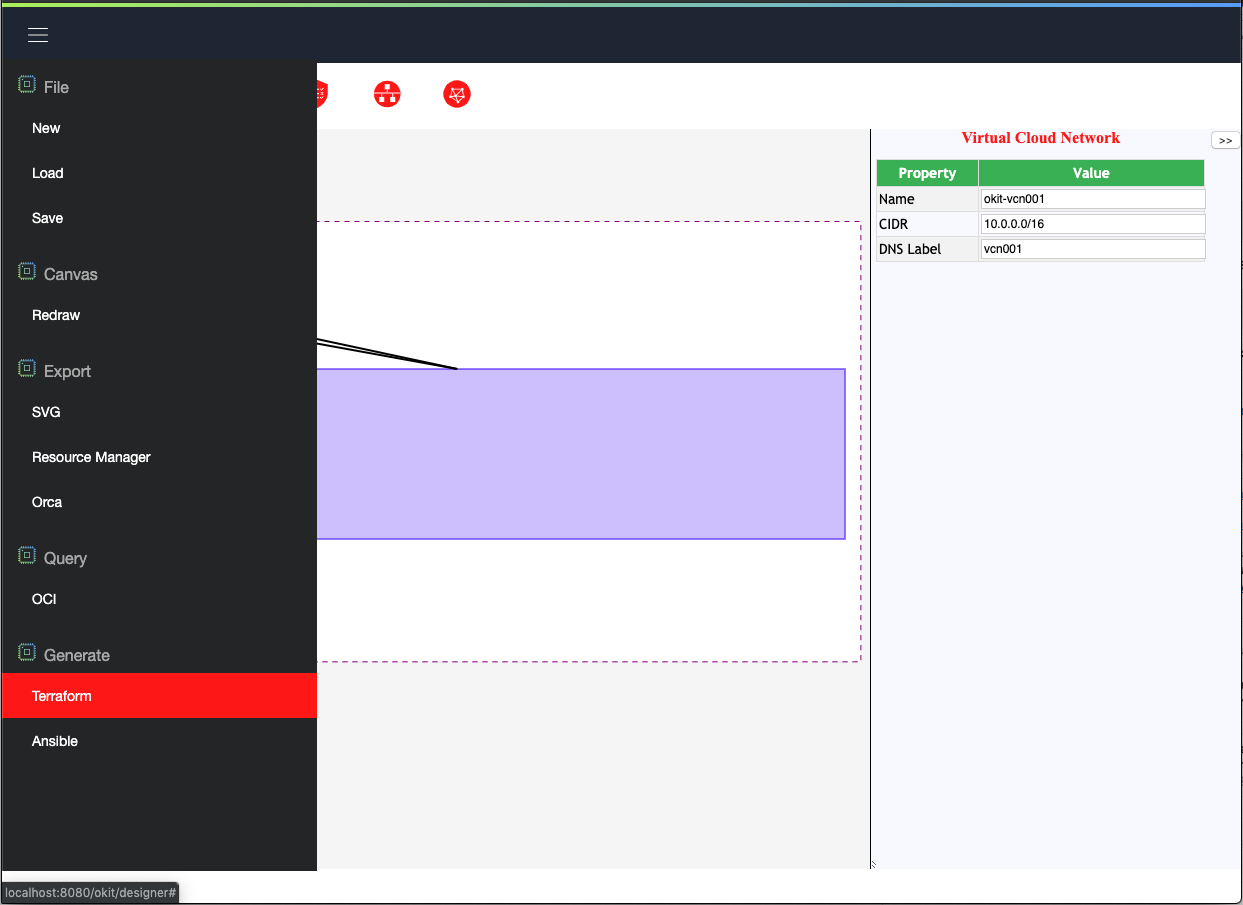
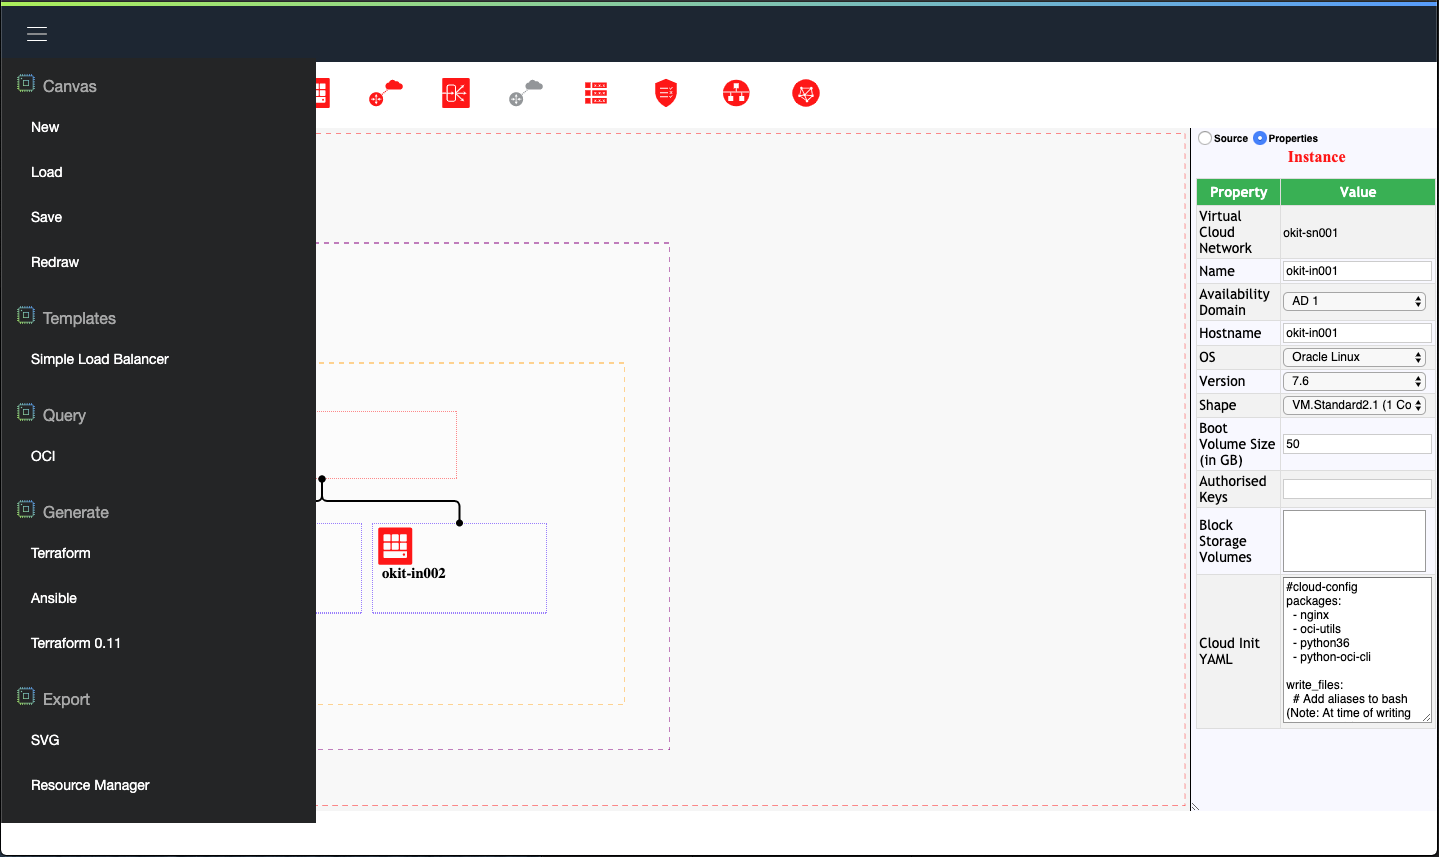
Update README

diff --git a/okitweb/static/okit/js/oci_assets/block_storage_volume.js b/okitweb/static/okit/js/oci_assets/block_storage_volume.js
@@ -116,6 +116,7 @@ function drawBlockStorageVolumeSVG(artifact) {
             if (instance.hasOwnProperty('block_storage_volume_ids')) {
                 if (instance['block_storage_volume_ids'].includes(artifact['id'])) {
                     console.info(artifact['display_name'] + ' attached to instance '+ instance['display_name']);
+                    console.groupEnd();
                     return;
                 }
             }

diff --git a/okitweb/static/okit/js/oci_assets/security_list.js b/okitweb/static/okit/js/oci_assets/security_list.js
@@ -155,7 +155,6 @@ function drawSecurityListSVG(artifact) {
         console.warn(parent_id + ' was not found in virtual cloud network sub artifacts : ' + JSON.stringify(virtual_cloud_network_bui_sub_artifacts));
     }
     console.groupEnd();
-    return;
 }
 
 /*

diff --git a/okitweb/static/okit/js/oci_assets/route_table.js b/okitweb/static/okit/js/oci_assets/route_table.js
@@ -152,7 +152,6 @@ function drawRouteTableSVG(artifact) {
         console.warn(parent_id + ' was not found in virtual cloud network sub artifacts : ' + JSON.stringify(virtual_cloud_network_bui_sub_artifacts));
     }
     console.groupEnd();
-    return;
 }
 
 /*

diff --git a/README.md b/README.md
@@ -406,7 +406,7 @@ Simple function to reset artifact specific variables.
  */
 function addBlockStorageVolume(parent_id, compartment_id) {
     let id = 'okit-' + block_storage_volume_prefix + '-' + uuidv4();
-    console.log('Adding ' + block_storage_volume_artifact + ' : ' + id);
+    console.groupCollapsed('Adding ' + block_storage_volume_artifact + ' : ' + id);
 
     // Add Virtual Cloud Network to JSON
 
@@ -429,10 +429,11 @@ function addBlockStorageVolume(parent_id, compartment_id) {
     block_storage_volume['backup_policy'] = 'bronze';
     okitJson['block_storage_volumes'].push(block_storage_volume);
     okitIdsJsonObj[id] = block_storage_volume['display_name'];
-    okitJson
-    displayOkitJson();
-    drawBlockStorageVolumeSVG(block_storage_volume);
+    //console.info(JSON.stringify(okitJson, null, 2));
+    //drawBlockStorageVolumeSVG(block_storage_volume);
+    drawSVGforJson();
     loadBlockStorageVolumeProperties(id);
+    console.groupEnd();
 }
 ```
 This function is used to add a new json element to the OKIT json structure. The elements within this json will match those 
@@ -469,17 +470,43 @@ function deleteBlockStorageVolume(id) {
 ```
 Function used to remove artifact and delete any references within linked artifacts.
 
+##### Artifact Dimensions Function
+```javascript
+function getBlockStorageVolumeDimensions(id='') {
+    return {width:icon_width, height:icon_height};
+}
+```
+
+The function is used to calculate the dimensions of the artifact and will be called by container function to determine 
+how much space to reserve for drawing this artifact. If you are building a container artifact (e.g. subnet) then this
+function will call the dimensions function for all contained artifacts to calculate it's dimensions.
+
 ##### Draw SVG
 ```javascript
 /*
 ** SVG Creation
  */
 function drawBlockStorageVolumeSVG(artifact) {
-    let parent_id = artifact['compartment_id'];
-    artifact['parent_id'] = parent_id;
+    let parent_id = artifact['parent_id'];
     let id = artifact['id'];
     let compartment_id = artifact['compartment_id'];
-    console.log('Drawing ' + block_storage_volume_artifact + ' : ' + id);
+    console.groupCollapsed('Drawing ' + block_storage_volume_artifact + ' : ' + id);
+    // Check if this Block Storage Volume has been attached to an Instance and if so do not draw because it will be done
+    // as part of the instance
+    if (okitJson.hasOwnProperty('instances')) {
+        for (let instance of okitJson['instances']) {
+            if (instance.hasOwnProperty('block_storage_volume_ids')) {
+                if (instance['block_storage_volume_ids'].includes(artifact['id'])) {
+                    console.info(artifact['display_name'] + ' attached to instance '+ instance['display_name']);
+                    console.groupEnd();
+                    return;
+                }
+            }
+        }
+    }
+    if (!artifact.hasOwnProperty('parent_id')) {
+        artifact['parent_id'] = artifact['compartment_id'];
+    }
 
     if (!compartment_bui_sub_artifacts.hasOwnProperty(parent_id)) {
         compartment_bui_sub_artifacts[parent_id] = {};
@@ -494,15 +521,7 @@ function drawBlockStorageVolumeSVG(artifact) {
         // Increment Icon Position
         compartment_bui_sub_artifacts[parent_id]['block_storage_position'] += 1;
 
-        let svg_x = (icon_width / 4);
-        let svg_y = Math.round((icon_height * 2) + (icon_height * position) + (icon_spacing * position));
-        let svg_width = icon_width;
-        let svg_height = icon_height;
-        let data_type = block_storage_volume_artifact;
-        let stroke_colour = block_storage_volume_stroke_colour;
-        let stroke_dash = 1;
-
-        let svg = drawArtifactSVG(artifact, data_type, svg_x, svg_y, svg_width, svg_height, stroke_colour, stroke_dash);
+        let svg = drawArtifact(newBlockStorageVolumeDefinition(artifact, position));
 
         let rect = d3.select('#' + id);
         let boundingClientRect = rect.node().getBoundingClientRect();
@@ -515,33 +534,11 @@ function drawBlockStorageVolumeSVG(artifact) {
         svg.on("click", function () {
             loadBlockStorageVolumeProperties(id);
             d3.event.stopPropagation();
-        })
-            .on("mousedown", handleConnectorDragStart)
-            .on("mousemove", handleConnectorDrag)
-            .on("mouseup", handleConnectorDrop)
-            .on("mouseover", handleConnectorDragEnter)
-            .on("mouseout", handleConnectorDragLeave)
-            .on("dragstart", handleConnectorDragStart)
-            .on("drop", handleConnectorDrop)
-            .on("dragenter", handleConnectorDragEnter)
-            .on("dragleave", handleConnectorDragLeave)
-            .on("contextmenu", handleContextMenu)
-            .attr("data-connector-start-y", boundingClientRect.y + boundingClientRect.height)
-            .attr("data-connector-start-x", boundingClientRect.x + (boundingClientRect.width/2))
-            .attr("data-connector-end-y", boundingClientRect.y + boundingClientRect.height)
-            .attr("data-connector-end-x", boundingClientRect.x + (boundingClientRect.width/2))
-            .attr("data-connector-id", id)
-            .attr("dragable", true)
-            .selectAll("*")
-            .attr("data-connector-start-y", boundingClientRect.y + boundingClientRect.height)
-            .attr("data-connector-start-x", boundingClientRect.x + (boundingClientRect.width/2))
-            .attr("data-connector-end-y", boundingClientRect.y + boundingClientRect.height)
-            .attr("data-connector-end-x", boundingClientRect.x + (boundingClientRect.width/2))
-            .attr("data-connector-id", id)
-            .attr("dragable", true);
+        });
     } else {
-        console.log(parent_id + ' was not found in compartment sub artifacts : ' + JSON.stringify(compartment_bui_sub_artifacts));
+        console.warn(parent_id + ' was not found in compartment sub artifacts : ' + JSON.stringify(compartment_bui_sub_artifacts));
     }
+    console.groupEnd();
 }
 ``` 
 Draws the artifact on the SVG canvas as parted of the dropped component. All artifacts are contained within there own svg
